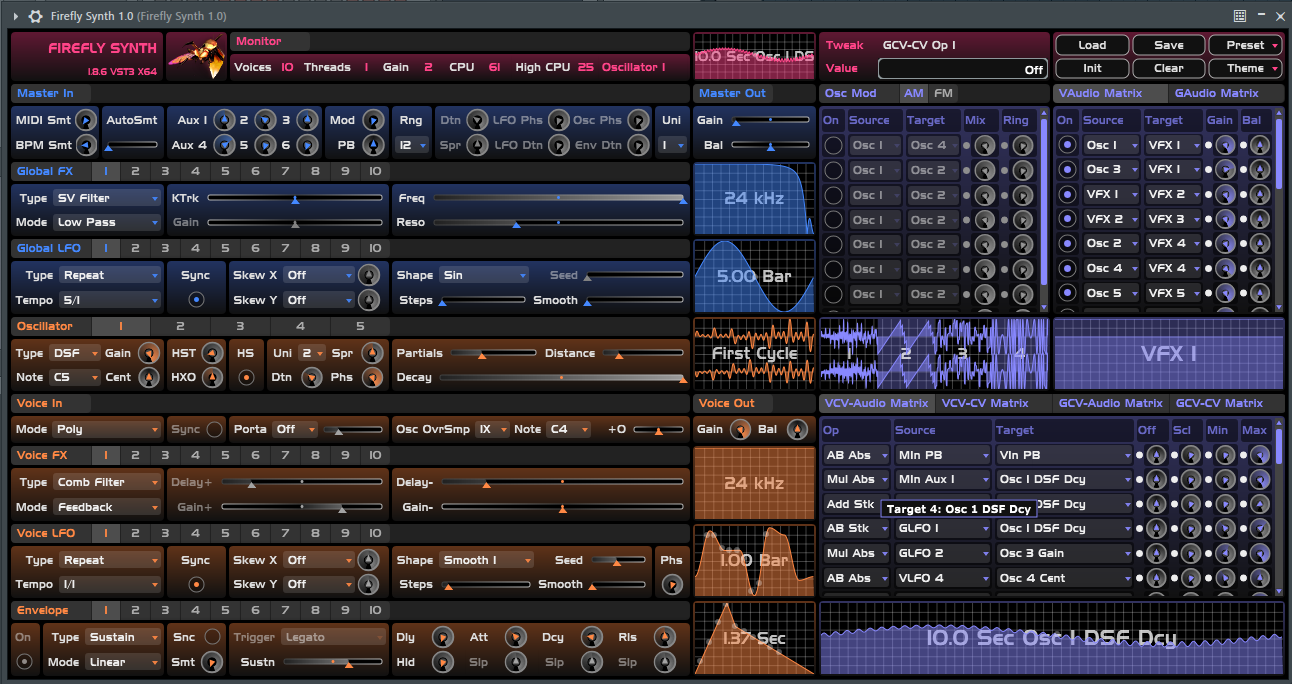
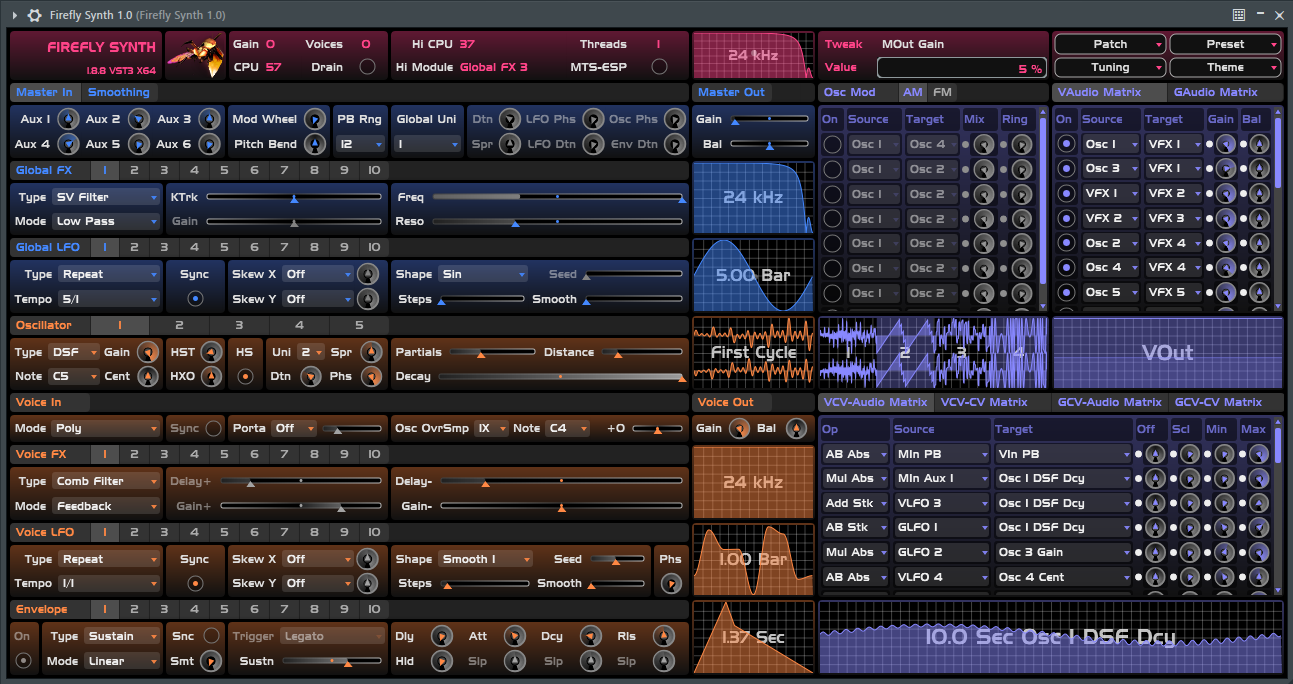
stuff

Changed region(s): [[0.0, 0.0, 1.0, 1.0]]

diff --git a/changelog.md b/changelog.md
@@ -1,4 +1,4 @@
-### August 22, 2024 - V1.8.8 (No binaries).
+### August 21, 2024 - V1.8.8.
 
 - Add voice drain indicator to monitor.
 - Moved load/save/init/clear patch into a single menu.
@@ -6,7 +6,7 @@
 - Moved smoothing parameters from Master In to new Smoothing module.
 - Fixed bug w.r.t. discarding dropdown items (by clicking outside the menu).
 - Bugfix + breaking change: portamento would glide from last note instead of current position.
-- Conversion code will fix existing patches, but Renoise automation data will be broken (that's why it's still not supported).
+- Conversion code will fix existing patches, but Renoise automation data may be broken (that's why it's still not supported).
 
 ### August 21, 2024 - V1.8.7.
 
